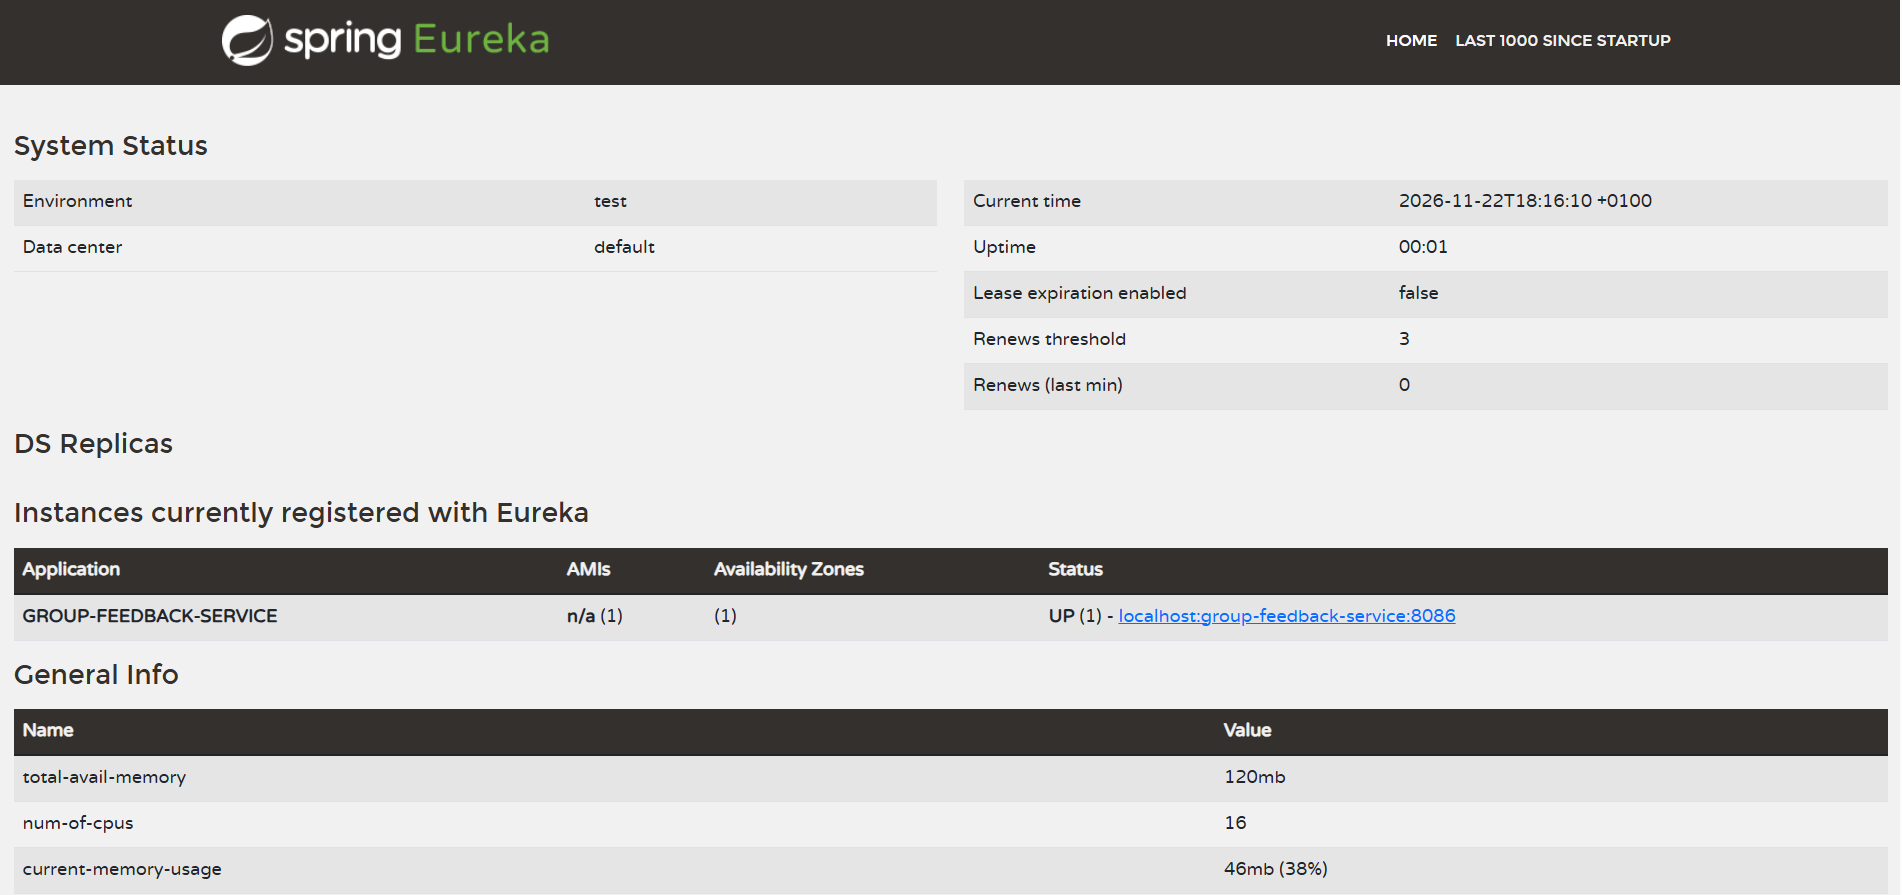
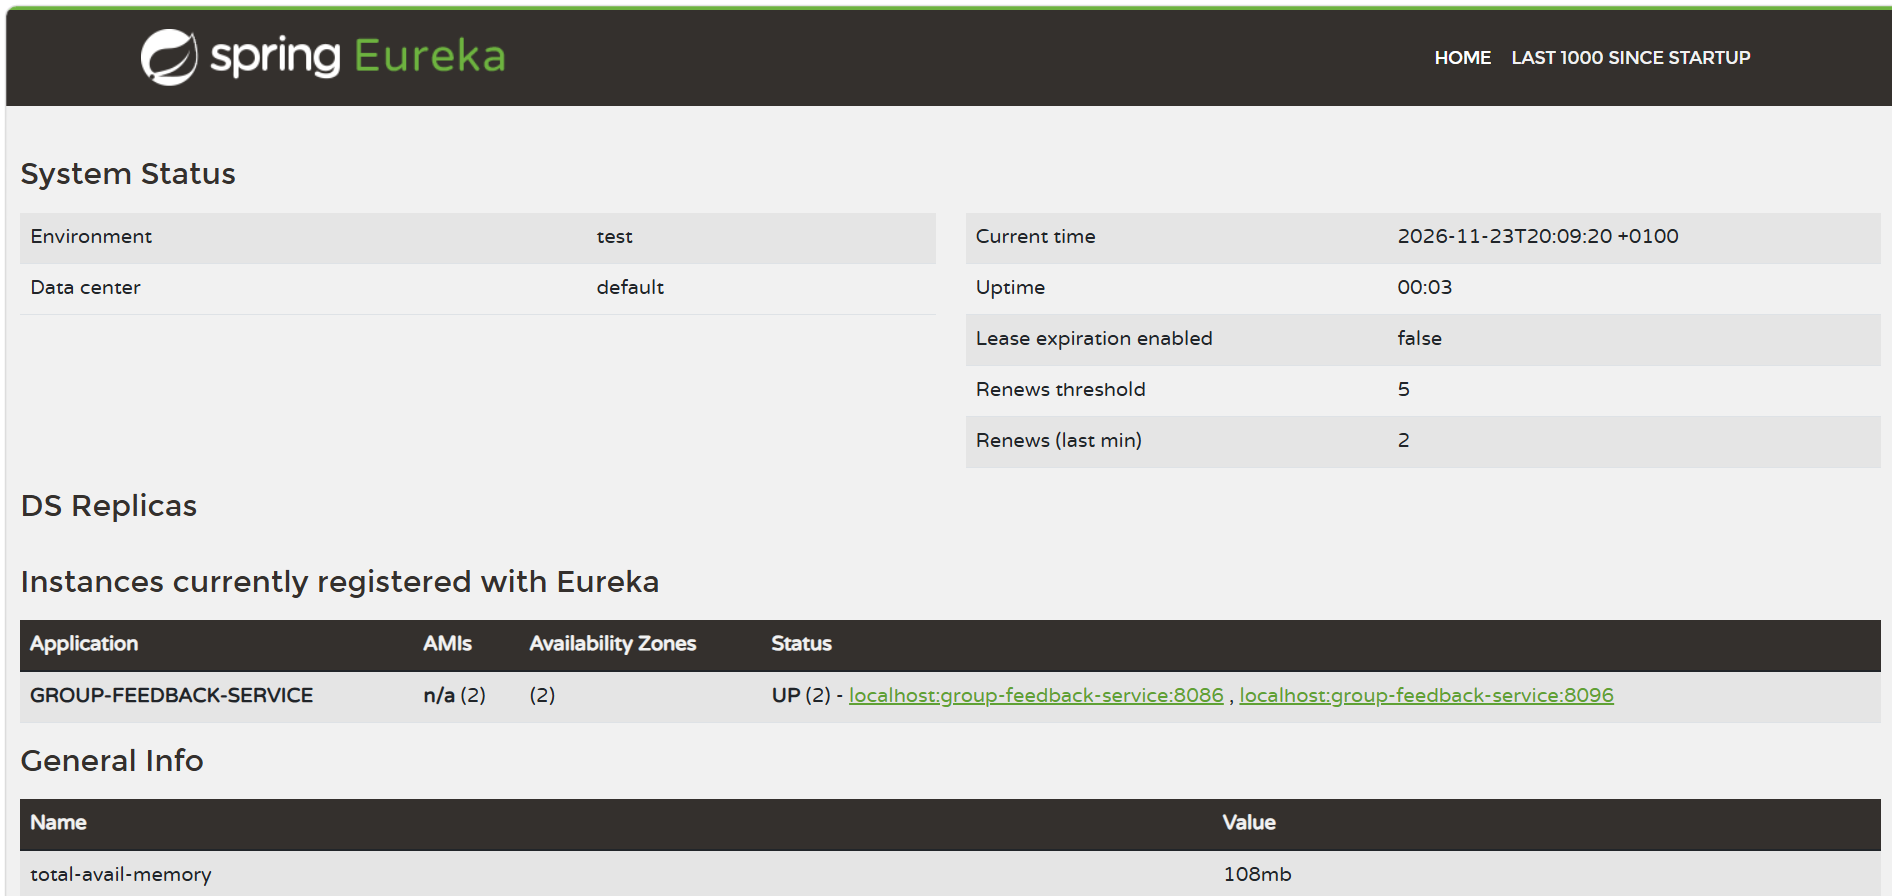
MS6 : EnableDiscoveryClient, 2 instances, Actuator info/loggers, HealthIndicator et README

diff --git a/backend/6-Group Feedback Service/src/main/java/com/awd/feedback/FeedbackHealthIndicator.java b/backend/6-Group Feedback Service/src/main/java/com/awd/feedback/FeedbackHealthIndicator.java
@@ -1,0 +1,17 @@
+package com.awd.feedback;
+
+import org.springframework.boot.actuate.health.Health;
+import org.springframework.boot.actuate.health.HealthIndicator;
+import org.springframework.stereotype.Component;
+
+@Component
+public class FeedbackHealthIndicator implements HealthIndicator {
+
+    @Override
+    public Health health() {
+        return Health.up()
+                .withDetail("service", "Group Feedback")
+                .withDetail("message", "Service de sondages operationnel")
+                .build();
+    }
+}

diff --git a/backend/6-Group Feedback Service/src/main/java/com/awd/feedback/GroupFeedbackServiceApplication.java b/backend/6-Group Feedback Service/src/main/java/com/awd/feedback/GroupFeedbackServiceApplication.java
@@ -2,8 +2,10 @@ package com.awd.feedback;
 
 import org.springframework.boot.SpringApplication;
 import org.springframework.boot.autoconfigure.SpringBootApplication;
+import org.springframework.cloud.client.discovery.EnableDiscoveryClient;
 
 @SpringBootApplication
+@EnableDiscoveryClient
 public class GroupFeedbackServiceApplication {
     public static void main(String[] args) {
         SpringApplication.run(GroupFeedbackServiceApplication.class, args);

diff --git a/backend/6-Group Feedback Service/README.md b/backend/6-Group Feedback Service/README.md
@@ -2,9 +2,9 @@
 
 Sondages anonymes sur le fonctionnement des groupes pendant le projet, etat de sante de chaque groupe
 (sain, a surveiller, en difficulte) et suivi des groupes en difficulte par l'enseignant.
-Route Gateway : `/api/feedback/**` — port `8086`.
+Port `8086` — route Gateway prevue : `/api/feedback/**`.
 
-Responsable : Sarra Souidi
+Responsable : Sarra Souidi — Equipe SKILLOM
 
 Ce service est un **client Eureka** : il s'enregistre au demarrage dans le serveur de decouverte
 (voir le dossier `backend/0-Eureka-Server`) sous le nom `GROUP-FEEDBACK-SERVICE`, et expose sa sante via **Spring Boot Actuator**.
@@ -19,16 +19,31 @@ Ce service est un **client Eureka** : il s'enregistre au demarrage dans le serve
 | **Sante du service** (Actuator) | http://localhost:8086/actuator/health |
 | Informations du service (Actuator) | http://localhost:8086/actuator/info |
 | Metriques (Actuator) | http://localhost:8086/actuator/metrics |
+| Requetes HTTP traitees (Actuator) | http://localhost:8086/actuator/metrics/http.server.requests |
+| Niveaux de logs (Actuator) | http://localhost:8086/actuator/loggers |
+| 2e instance (port 8096) : test | http://localhost:8096/hello |
+| 2e instance (port 8096) : sante | http://localhost:8096/actuator/health |
 
 ## Lancer en local
 
 Ordre important : **1) le serveur Eureka, 2) le service**.
 
 1. Lancer le serveur Eureka (voir `backend/0-Eureka-Server/README.md`), disponible sur http://localhost:8761.
-2. Lancer `GroupFeedbackServiceApplication` depuis IntelliJ.
+2. Lancer le service, depuis le dossier `backend/0-Eureka-Server` (on utilise son Maven Wrapper) :
+
+```bash
+$env:JAVA_HOME="C:\Program Files\Java\jdk-17"
+.\mvnw.cmd -f "..\6-Group Feedback Service\pom.xml" spring-boot:run
+```
 
 > Si Eureka n'est pas lance, le service demarre quand meme mais affiche des erreurs de connexion
 > a `localhost:8761` dans la console, et n'apparait pas dans le dashboard.
+
+**Eureka sur un autre PC** : definir `EUREKA_URL` avant le lancement, sans modifier aucun fichier :
+
+```bash
+$env:EUREKA_URL="http://ADRESSE-IP:8761/eureka"
+```
 
 ## Endpoints
 
@@ -49,34 +64,69 @@ sans adresse IP ecrite en dur.
 - Dependances : `spring-cloud-starter-netflix-eureka-client` et `spring-boot-starter-actuator`.
 - Bloc `dependencyManagement` important le BOM `spring-cloud-dependencies`.
 
-### 2. `application.properties`
+### 2. Classe principale
+
+Annotation `@EnableDiscoveryClient` sur `GroupFeedbackServiceApplication` : elle rend explicite le role de client Eureka.
+
+### 3. `application.properties`
 
 ```properties
-# Eureka
-eureka.client.service-url.defaultZone=http://localhost:8761/eureka
+# Eureka (adresse configurable par la variable EUREKA_URL, localhost par defaut)
+eureka.client.service-url.defaultZone=${EUREKA_URL:http://localhost:8761/eureka}
 eureka.client.register-with-eureka=true
 eureka.client.fetch-registry=true
 eureka.instance.prefer-ip-address=true
 eureka.client.healthcheck.enabled=true
 
 # Actuator
-management.endpoints.web.exposure.include=health,info,metrics
+management.endpoints.web.exposure.include=health,info,metrics,loggers
 management.endpoint.health.show-details=always
 management.info.env.enabled=true
+
+# Informations publiees dans /actuator/info
 info.app.name=Group Feedback
 info.app.version=1.0.0
+info.app.description=Microservice de sondages anonymes et de suivi des groupes
+info.app.team=Equipe SKILLOM
 ```
 
 - `eureka.client.healthcheck.enabled=true` : Eureka recoit le statut reel calcule par `/actuator/health`.
 - `management.endpoint.health.show-details=always` : `/actuator/health` affiche le detail des composants.
+- `management.info.env.enabled=true` : publie les proprietes `info.*` dans `/actuator/info`.
 
-### 3. Verification
+### 4. Lancer une 2e instance (montee en charge)
+
+Depuis `backend/0-Eureka-Server` :
+
+```bash
+.\mvnw.cmd -f "..\6-Group Feedback Service\pom.xml" spring-boot:run "-Dspring-boot.run.arguments=--server.port=8096"
+```
+
+Resultat attendu dans le dashboard : `GROUP-FEEDBACK-SERVICE` avec **2 instances** (ports 8086 et 8096), toutes deux `UP`.
+
+### 5. Verification
 
 1. Lancer Eureka puis le service, attendre environ 30 secondes, **recharger** http://localhost:8761
    (la page ne se rafraichit pas toute seule) : `GROUP-FEEDBACK-SERVICE` apparait avec le statut **UP**.
 2. Ouvrir http://localhost:8086/actuator/health : `"status":"UP"`.
+3. Ouvrir http://localhost:8086/actuator/info : nom, version, description et equipe du service.
 
 ![Dashboard Eureka](docs/eureka-dashboard.png)
+
+## Observabilite avec Actuator
+
+- **HealthIndicator personnalise** : la classe `FeedbackHealthIndicator` ajoute un composant `feedback`
+  dans `/actuator/health`. Plus tard, elle pourra verifier la base `feedback_db` et renvoyer `DOWN`.
+- **`/actuator/info`** renvoie :
+
+```json
+{"app":{"name":"Group Feedback","version":"1.0.0",
+"description":"Microservice de sondages anonymes et de suivi des groupes","team":"Equipe SKILLOM"}}
+```
+
+- **`/actuator/metrics/http.server.requests`** : apres plusieurs appels a `/hello`, la mesure `COUNT`
+  donne le nombre de requetes traitees et `MAX` la duree de la plus lente.
+  `?tag=status:200` ne compte que les requetes reussies.
 
 ## Reste a faire
 
